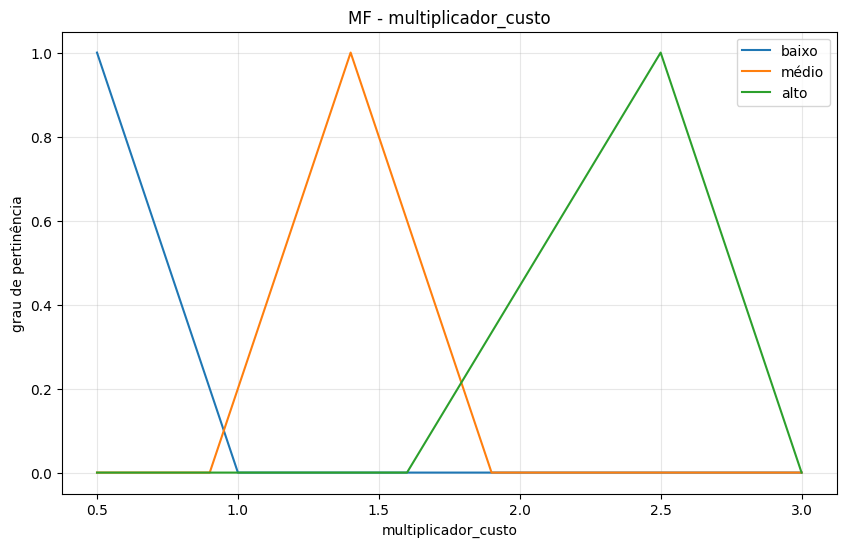
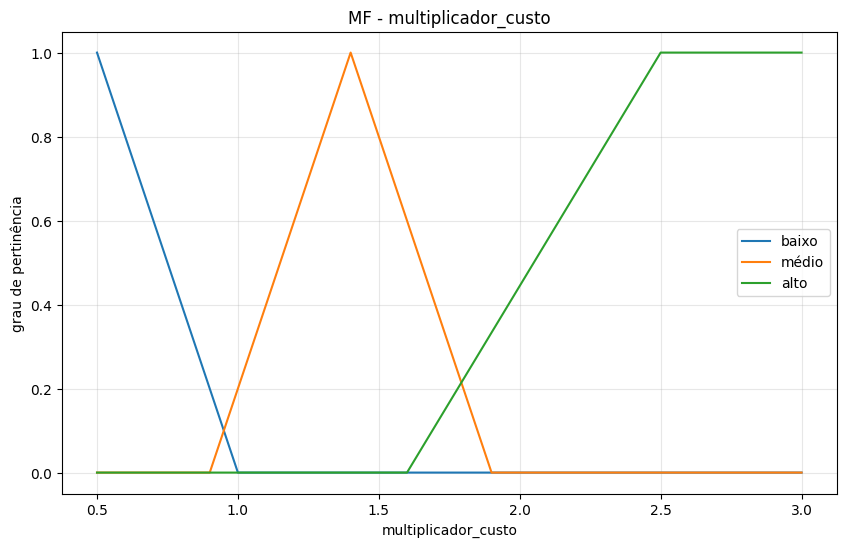
trapmf no lugar de trimf

diff --git a/projeto_ia/fuzzy_controlador.py b/projeto_ia/fuzzy_controlador.py
@@ -1,7 +1,7 @@
 import numpy as np
 import skfuzzy as fuzz
 from skfuzzy import control as ctrl
-from .util import custo_terreno
+from util import custo_terreno
 import os
 import matplotlib
 matplotlib.use('Agg')
@@ -28,12 +28,12 @@ distancia['longe'] = fuzz.trimf(distancia.universe, [50, 100, 100])
 
 multiplicador_custo['baixo'] = fuzz.trimf(multiplicador_custo.universe, [0.5, 0.5, 1.0])
 multiplicador_custo['médio'] = fuzz.trimf(multiplicador_custo.universe, [0.9, 1.4, 1.9])
-multiplicador_custo['alto'] = fuzz.trimf(multiplicador_custo.universe, [1.6, 2.5, 3.0])
+multiplicador_custo['alto'] = fuzz.trapmf(multiplicador_custo.universe, [1.6, 2.5, 3.0, 3.0])
 
 
 peso_heuristica['baixo'] = fuzz.trimf(peso_heuristica.universe, [0.1, 0.1, 0.6])
 peso_heuristica['médio'] = fuzz.trimf(peso_heuristica.universe, [0.4, 0.9, 1.4])
-peso_heuristica['alto'] = fuzz.trimf(peso_heuristica.universe, [1.0, 1.6, 2.0])
+peso_heuristica['alto'] = fuzz.trapmf(peso_heuristica.universe, [1.0, 1.6, 2.0, 2.0])
 
 
 regras = [

diff --git a/projeto_ia/main.py b/projeto_ia/main.py
@@ -1,7 +1,7 @@
-from .mapa import mapa, posicoes
-from .busca import busca_a_estrela, busca_gulosa
-from .util import imprimir_mapa
-from .fuzzy_controlador import plot_membership_functions, plot_surface_3d
+from mapa import mapa, posicoes
+from busca import busca_a_estrela, busca_gulosa
+from util import imprimir_mapa
+from fuzzy_controlador import plot_membership_functions, plot_surface_3d
 import argparse
 import os
 
@@ -74,5 +74,3 @@ if __name__ == "__main__":
         plot_membership_functions(prefix)
         surface_path = os.path.join(base_outdir, "fuzzy_surface.png")
         plot_surface_3d(surface_path)
-
-

diff --git a/projeto_ia/busca.py b/projeto_ia/busca.py
@@ -1,6 +1,6 @@
 import heapq
-from .util import custo_terreno, heuristica_manhattan
-from .fuzzy_controlador import avaliar_celula_fuzzy
+from util import custo_terreno, heuristica_manhattan
+from fuzzy_controlador import avaliar_celula_fuzzy
 
 def vizinhos(pos, mapa, objetivo=None):
     linhas, colunas = mapa.shape

diff --git a/projeto_ia/util.py b/projeto_ia/util.py
@@ -1,6 +1,6 @@
 import math
 import numpy as np
-from .mapa import mapa
+from mapa import mapa
 
 CUSTOS_TERRENO = {
     "🟩": 1.0, "🌲": 2.0, "🟧": 2.5, "🟫": 4.0, "🌋": 5.0,
